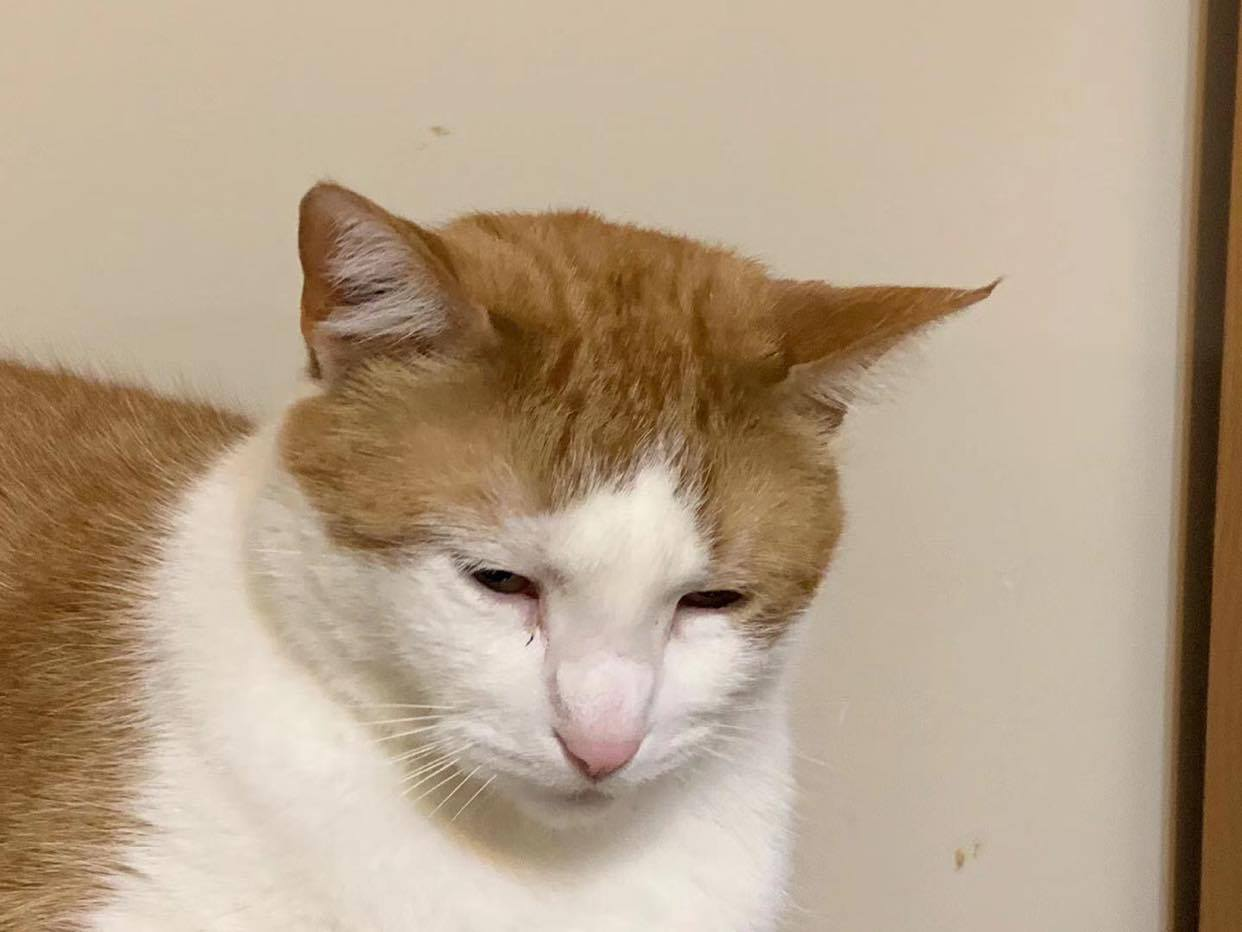
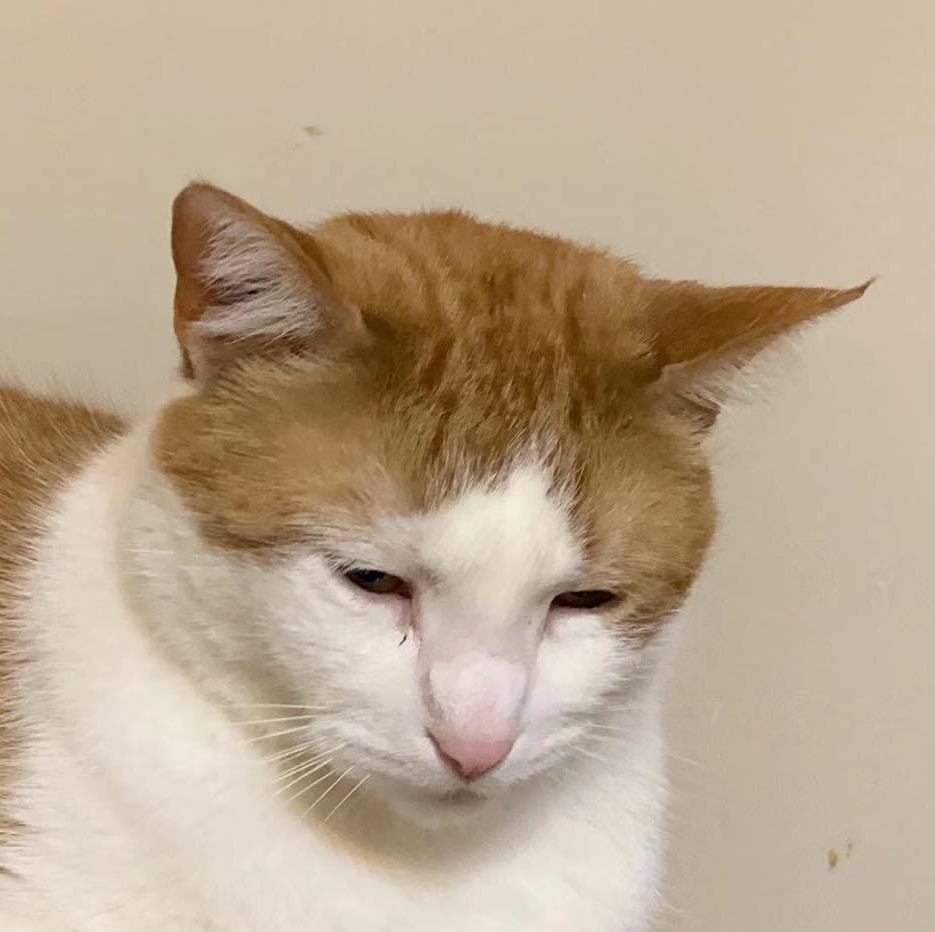
Fix image and font sizing

diff --git a/src/components/misc/misc.js b/src/components/misc/misc.js
@@ -22,7 +22,7 @@ function Misc() {
           <p data-aos="fade-up" data-aos-delay="200">
             I work hard so my cat (Samwise) can have a better life
           </p >
-          <img src={Cat} width="30%" alt="Samwise Cat" data-aos="fade-up" data-aos-delay="200"/>
+          <img className="cat-picture" src={Cat} width="30%" alt="Samwise Cat" data-aos="fade-up" data-aos-delay="200"/>
           <br></br>
           <p>
             This page has been viewed at least &nbsp;<img src="https://stuff.mit.edu/cgi/counter/albearli" alt="counter" className="counter"></img> &nbsp; times

diff --git a/src/components/about/about.css b/src/components/about/about.css
@@ -17,6 +17,19 @@ img {
   padding-bottom: 2%;
 }
 
+.picture {
+  border-radius: 50%;
+  width: 20%;
+}
+@media (max-width: 800px) {
+  .picture {
+    width: 50%;
+  }
+  p {
+    font-size: medium;
+  }
+}
+
 .centered {
   text-align: center;
 }

diff --git a/src/components/misc/misc.css b/src/components/misc/misc.css
@@ -17,3 +17,14 @@
 .facts-title {
   padding-left: 25%;
 }
+
+.cat-picture {
+  border-radius: 50%;
+  width: 15%;
+}
+
+@media (max-width: 800px) {
+  .cat-picture {
+    width: 50%;
+  }
+}
